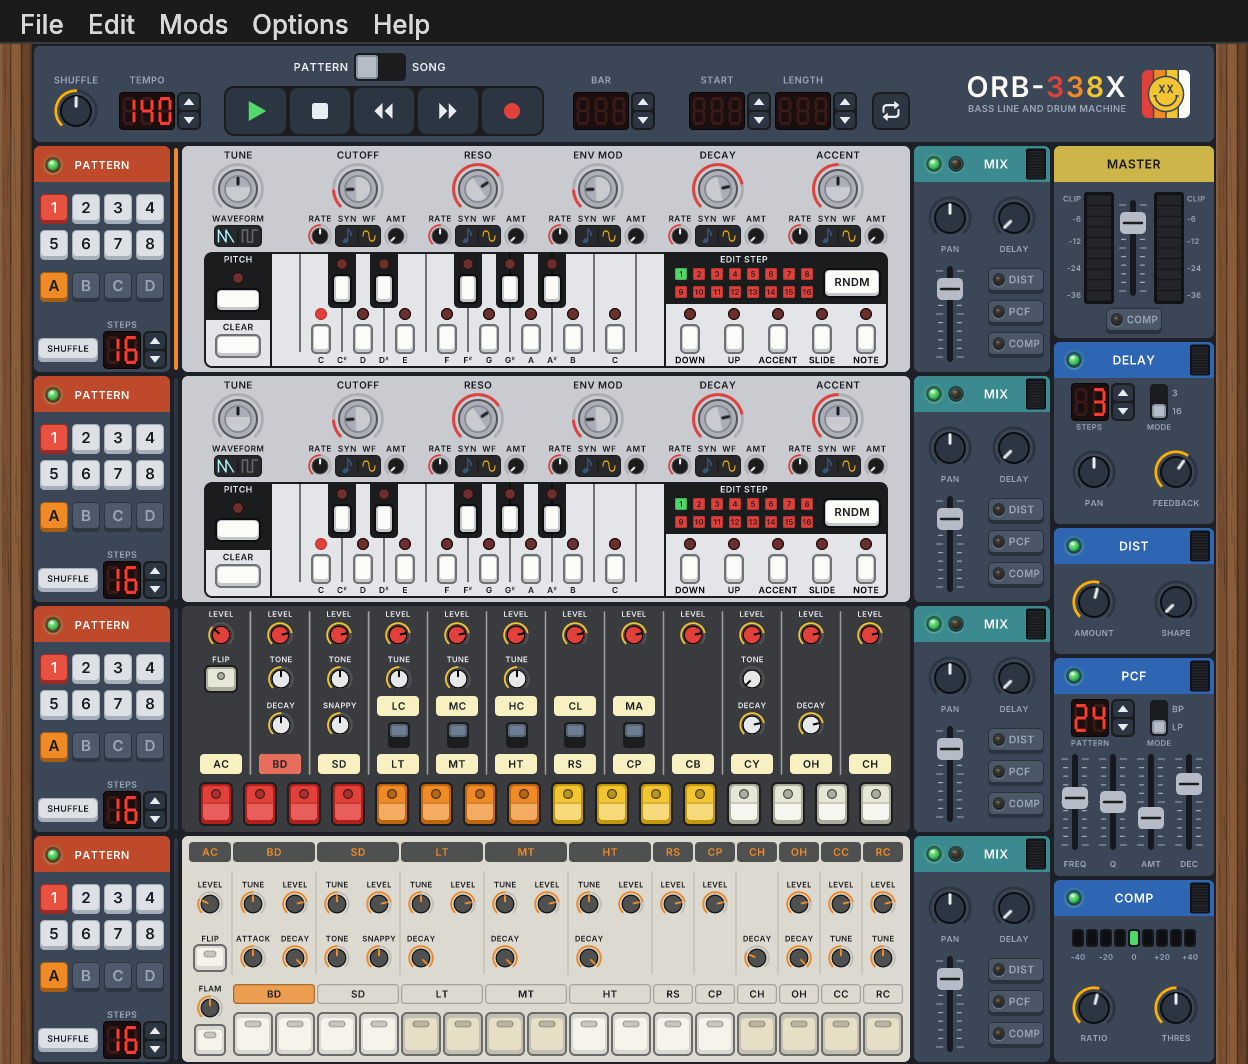
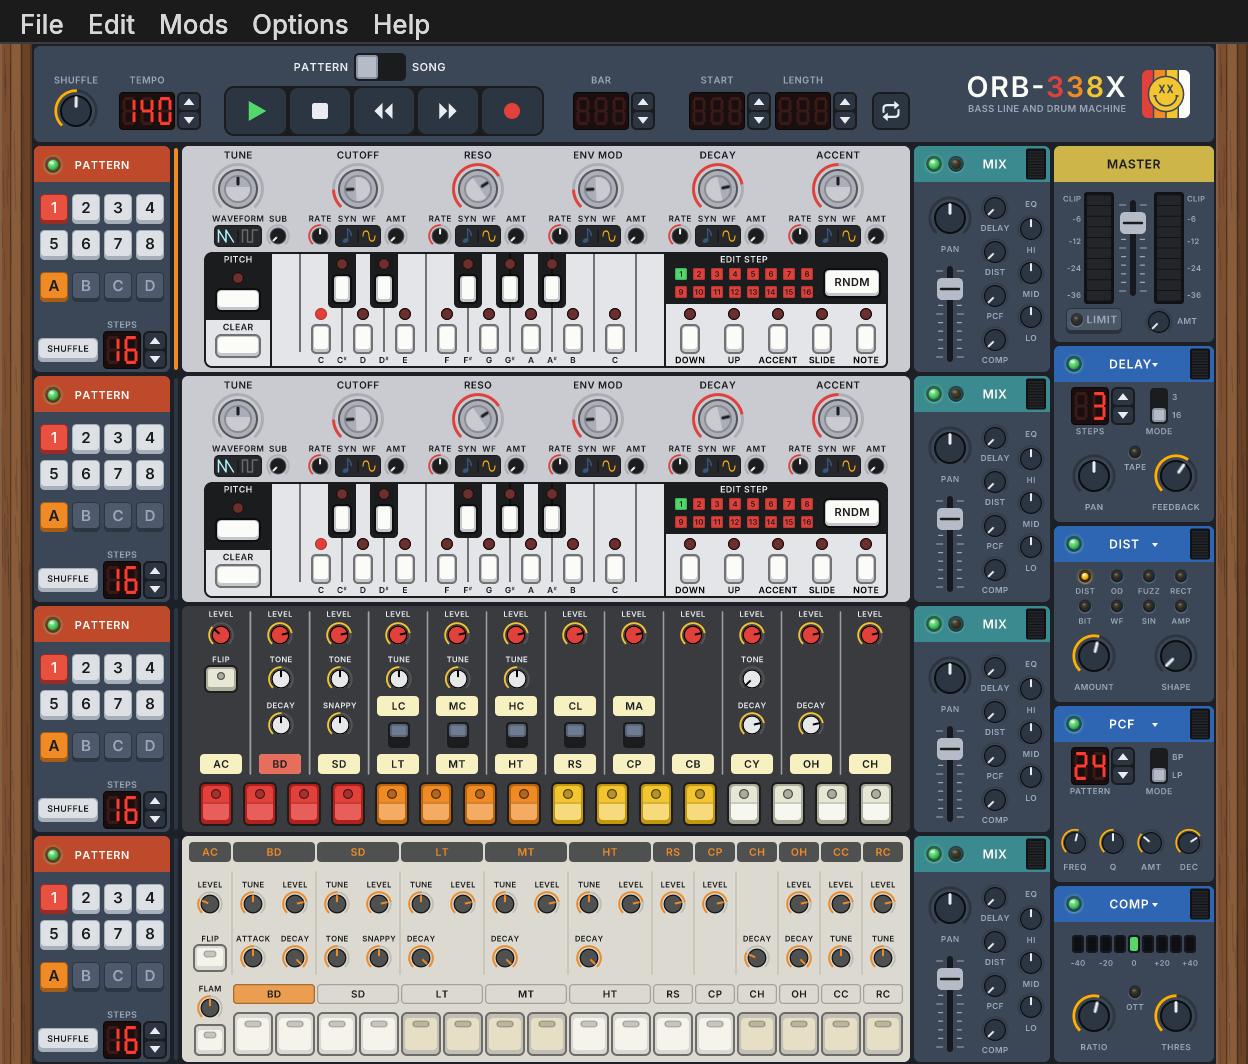
docs: README with the effects rack, the FLIP lamps and a new screenshot

Changed region(s): [[0.7812, 0.1861, 1.0, 0.9925], [0.2188, 0.4342, 0.25, 0.4652], [0.2188, 0.2171, 0.25, 0.2481]]

diff --git a/README.md b/README.md
@@ -46,7 +46,7 @@ extra features for the two bass synths. Everything the original does, it does to
   like the others.
 - **Hear the note in pitch mode:** while the song is stopped, a key pressed in pitch mode plays
   its note with the synth's current sound.
-- **`.rbsx` songs:** a ReBirth song plus the GENERATE and LFO settings. Plain `.rbs` songs still
+- **`.rbsx` songs:** a ReBirth song plus the GENERATE, LFO, FLIP and effects settings. Plain `.rbs` songs still
   open and save as before; Save As has a button for each format.
 - **The Inter typeface** for the panel's labels, the logo and the windows, and this fork's own
   startup sound.
@@ -62,6 +62,18 @@ extra features for the two bass synths. Everything the original does, it does to
   Linux) work on the selected pattern of the row with the focus, with its steps, length and
   shuffle. The Edit menu and a right click on the lit pattern button have them too. A 303's
   pattern pastes into either 303.
+- **An effects rack of four slots:** each slot's menu puts any of RVRB, DELAY, DIST, PCF, CHO,
+  FLA, PHA and COMP in it (two of the same at most), and each mixer channel's knobs follow the
+  slots. New in it: a reverb, a chorus, a flanger and a phaser; seven more DIST kinds (OD, FUZZ,
+  RECT, BIT, WF, SIN, AMP) picked by its lamps; TAPE on the delay (wow, flutter and darker
+  repeats) and OTT on the COMP (a multiband compressor that lifts the quiet parts too).
+- **The mixer and the master:** an EQ (HI, MID, LO) on every channel, and a LIMIT key with its
+  AMT knob on the master.
+- **FLIP on the 808 and the 909:** the drum machine's other face, with a PAN knob and four
+  effects lamps for every sound, one per slot and named after its effect. A lit lamp sends the
+  sound through that slot; a double click sets that lamp of every sound. With every lamp lit
+  and the pans in the middle the sound is the original's. A **KIT menu** gives one drum
+  machine a kit of its own.
 
 ## Features
 
